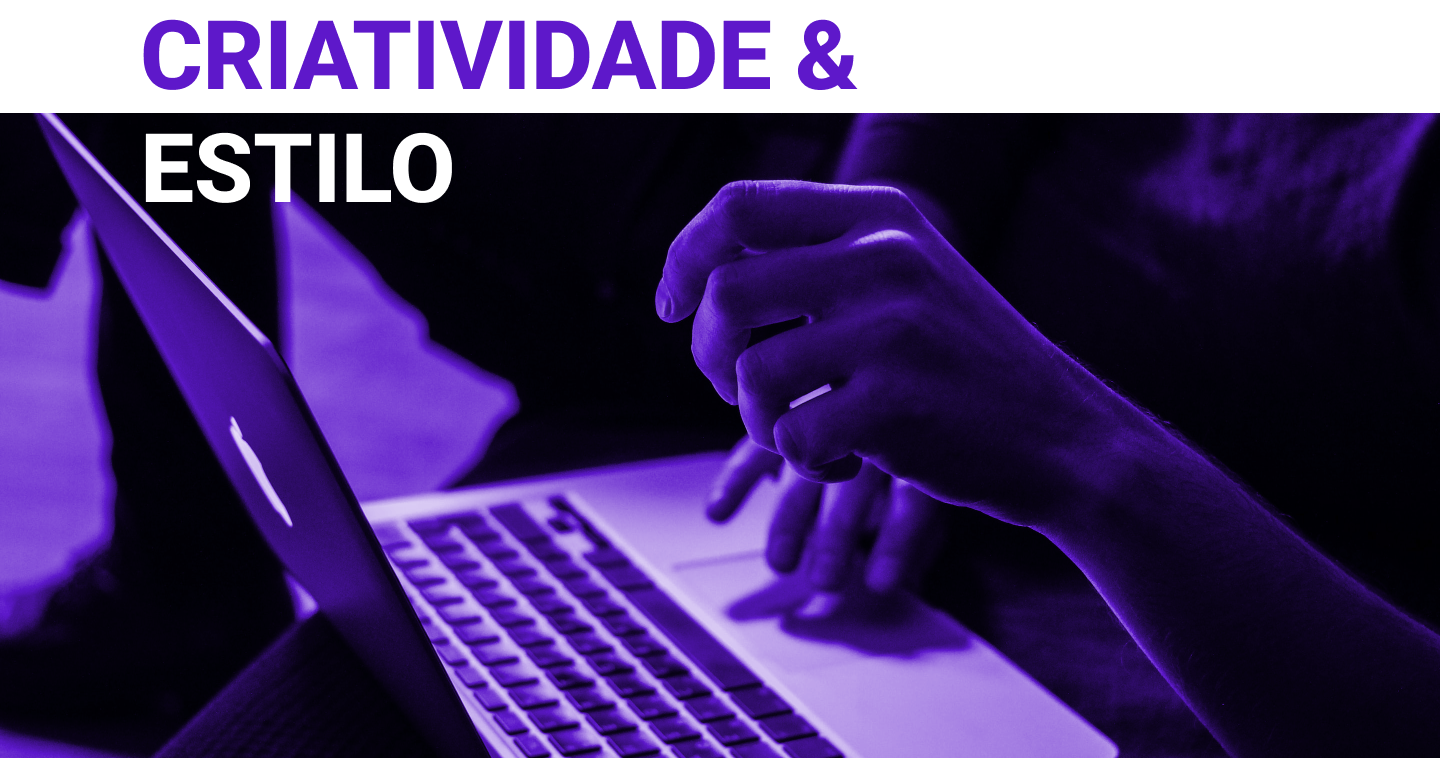
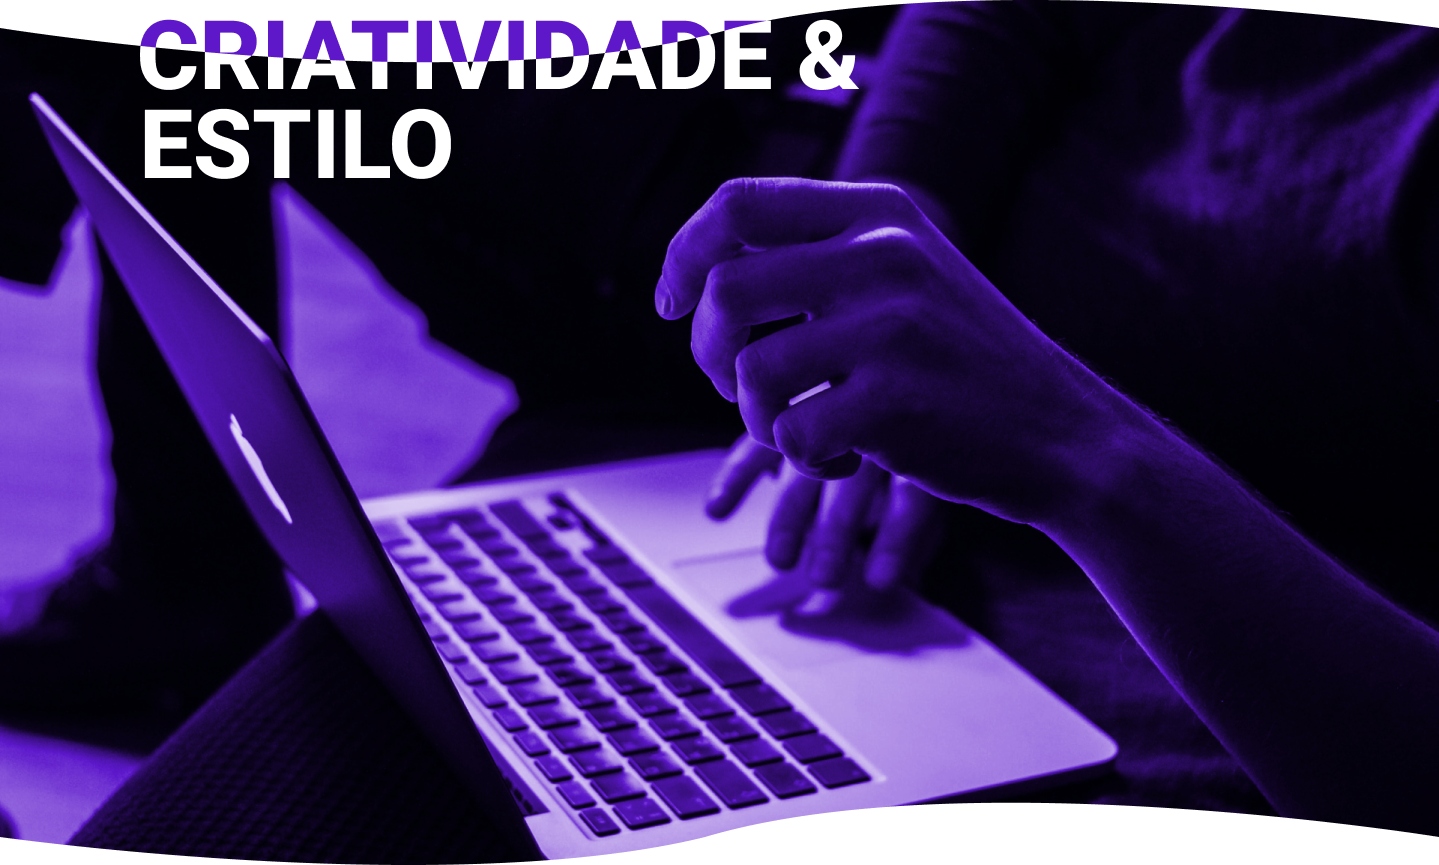
[REFACTOR] Troca de backgrounds

diff --git a/src/components/Div1Sites.jsx b/src/components/Div1Sites.jsx
@@ -1,7 +1,9 @@
 import React from 'react'
 import { isMobile } from 'react-device-detect'
-import { backgroundCelulares, celularesSites, imgDivSites } from '../assets'
+import { backgroundCelulares, celularesSites, down, bgDivSite, up } from '../assets'
 import styles from '../style'
+import { Parallax } from '@react-spring/parallax'
+
 
 const Div1Sites = () => {
     if(isMobile){
@@ -22,11 +24,7 @@ const Div1Sites = () => {
     } else {
         return (
             <section id="home" className={`md:flex-row flex-col ${styles.paddingY}`}>
-
-                
-                <div className='bg-div-sites-web' >
-                    <h1>ESTILO</h1>
-                </div>
+                <img src={bgDivSite}></img>
                 <div className='bg-port-sites'>
                     <h1 className='blank'>.</h1>
                     <h1 className='conteudo-sites'>SITES MODERNOS E</h1>

diff --git a/src/index.css b/src/index.css
@@ -2198,9 +2198,11 @@
 }
 
 .bg-port-sites{
+  background: rgba(red, green, blue, .05);
   background-image: url('./assets/bg-port-sites.png');
-  margin-top: -9.85%;
+  margin-top: -15%;
   background-repeat: no-repeat;
+  margin-bottom: -9%;
 }
 
 .blank2{
@@ -2209,8 +2211,8 @@
 
 
 .bg-div3-sites-web{
-  background-color: #5E18CA;
-  height: 850px;
+  background-image: url('./assets/bg-dif-sites.png');
+  height: 1170px;
   width: 1366px;
   margin-top: -9.8%;
   
@@ -2218,7 +2220,7 @@
 
 .title-diferencial-site-web{
 
-  margin-top: 5%;
+  margin-top: 15%;
   font-family: 'Poppins';
   font-style: normal;
   font-weight: 800;
@@ -2479,3 +2481,6 @@ body::-webkit-scrollbar-thumb {
   height: 100vh;
   background-repeat: no-repeat;
 }
+
+.diferencial{}
+

diff --git a/src/assets/index.js b/src/assets/index.js
@@ -69,6 +69,10 @@ import image1Seguranca from "./image1Seguranca.png"
 import image2Seguranca from "./image2Seguranca.png"
 import imageDifSeguranca from "./imageDifSeguranca.png"
 import imageDifSeguranca2 from "./imageDifSeguranca2.png"
+import up from "./up.png"
+import down from "./down.png"
+import bgDivSite from "./bg-div-sites-web.png"
+import textDiv from "./text-div.png"
 
  
 
@@ -143,6 +147,10 @@ export {
   image1Seguranca,
   image2Seguranca,
   imageDifSeguranca,
-  imageDifSeguranca2
+  imageDifSeguranca2,
+  up,
+  down,
+  bgDivSite,
+  textDiv
     
 };
